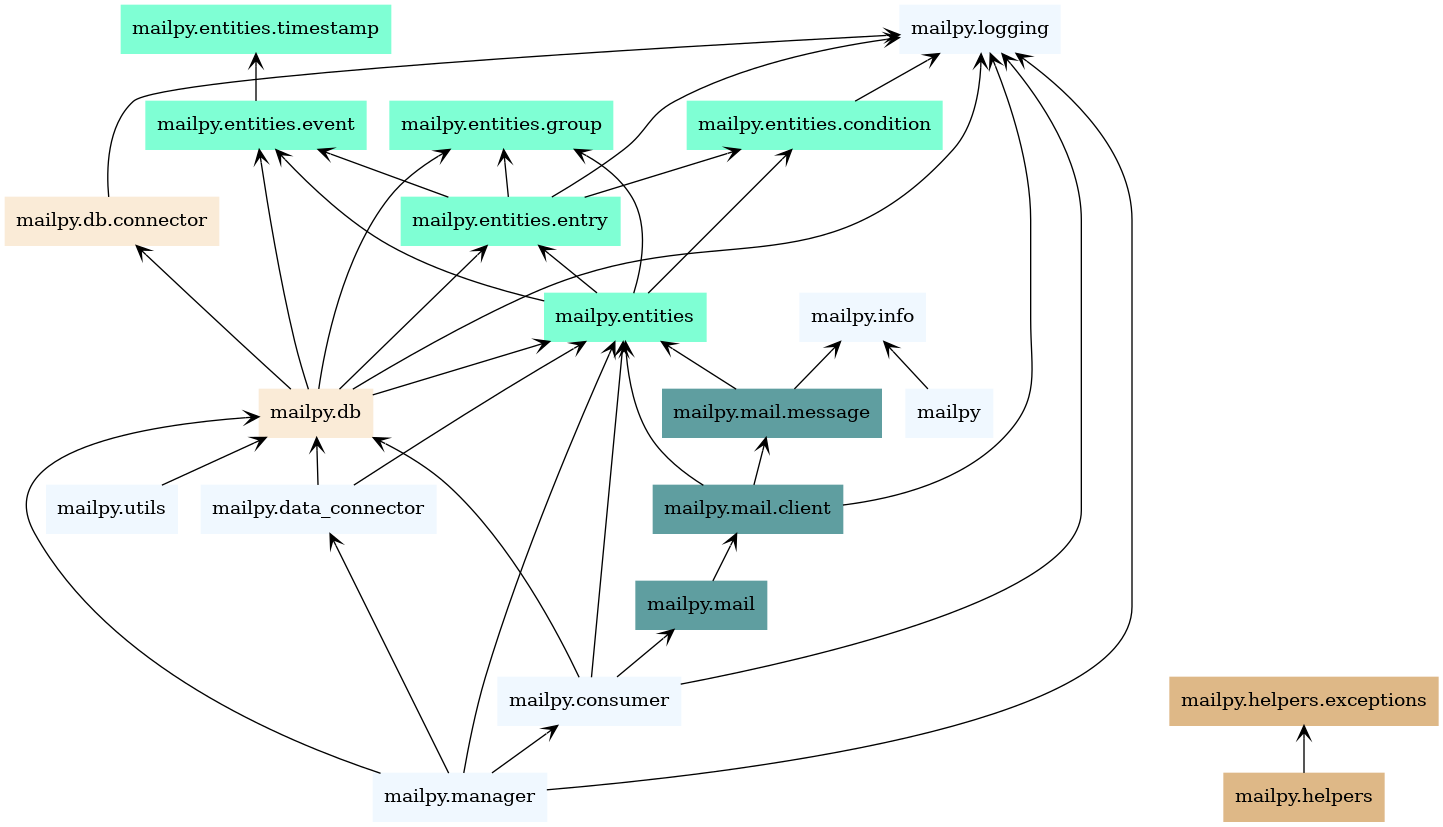
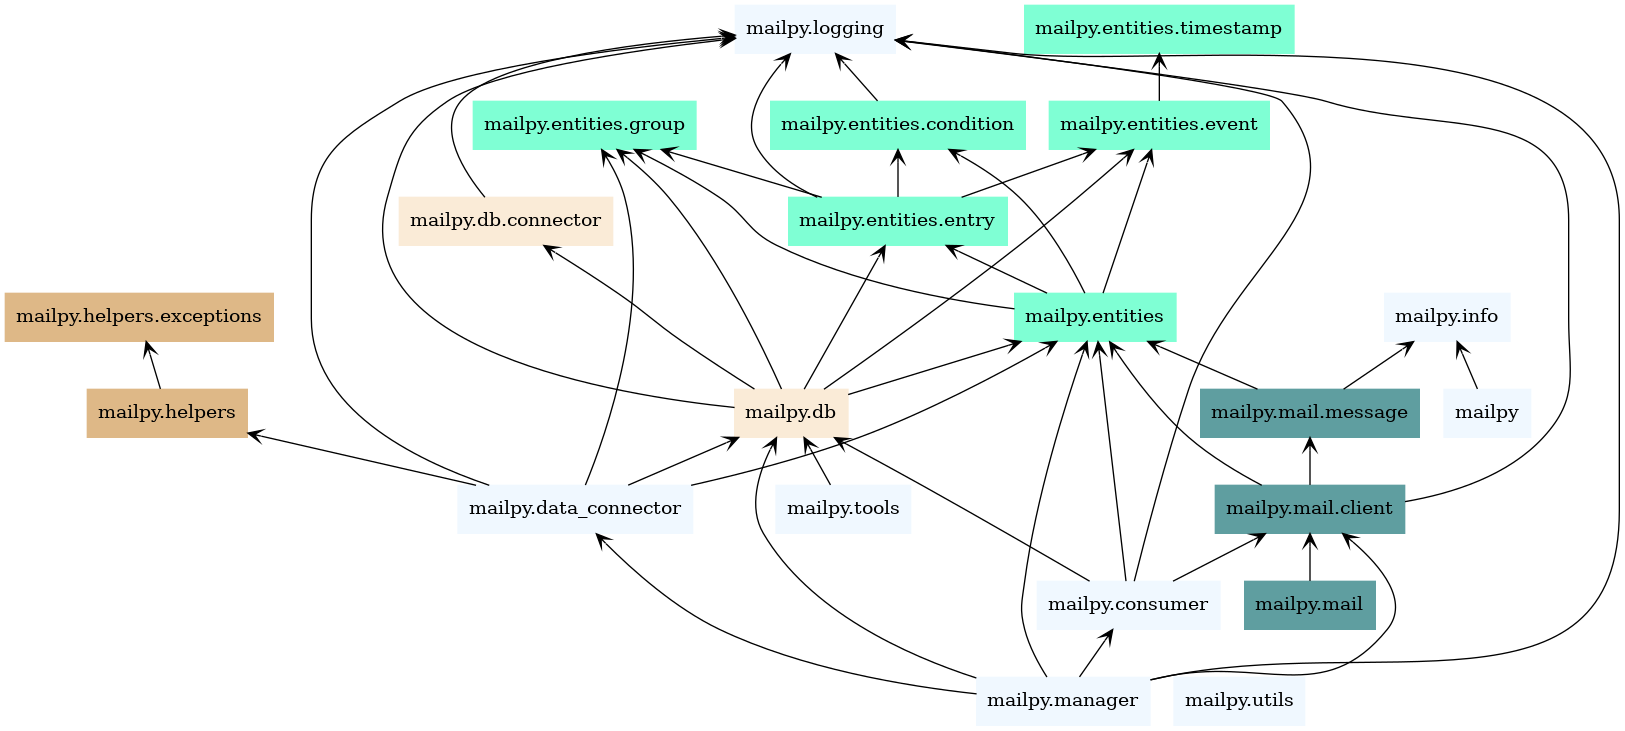
Update UML

diff --git a/README.md b/README.md
@@ -136,3 +136,9 @@ Secrets or Environment Variables:
 - Support condition 'decreasing step' (similar to 'increasing step')
 - Consider creating an "user" collection (MongoDB)
 ```
+
+## docs\]
+
+```
+pyreverse --colorized -o png -p mailpy --all-ancestors src/mailpy --output-directory=./docs
+```
